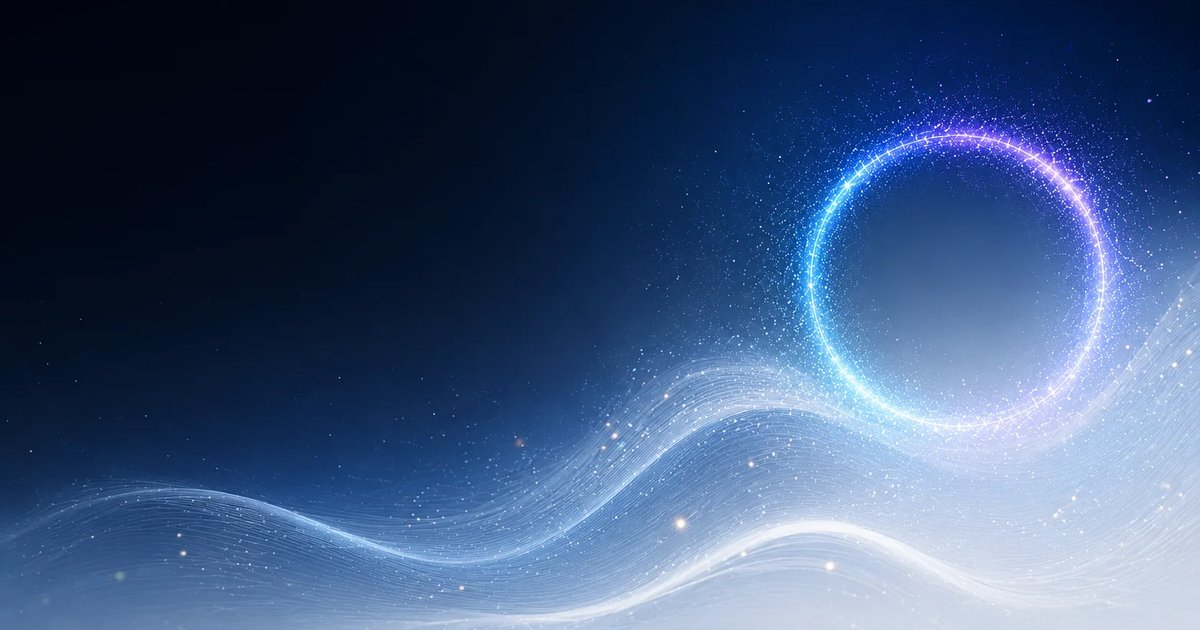
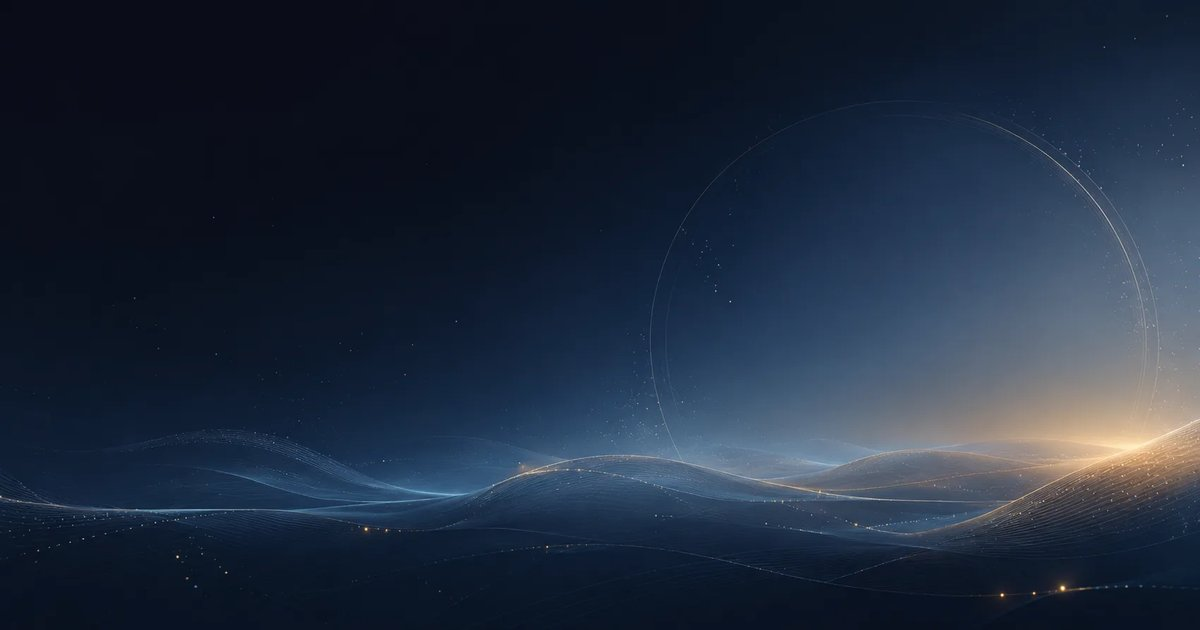
Use the dawn signal-field art for the social share image
The vision-ring crop read well but the notfound art — dark horizon,
golden glow, faint ring — is calmer and more distinctive as a card.

diff --git a/index.html b/index.html
@@ -28,7 +28,7 @@
     <meta property="og:image:height" content="630" />
     <meta
       property="og:image:alt"
-      content="Luminous particle ring above a flowing signal field — the Auriora mark"
+      content="Faint luminous ring rising over a dark flowing signal field at dawn — Auriora"
     />
 
     <!-- Twitter / X card -->